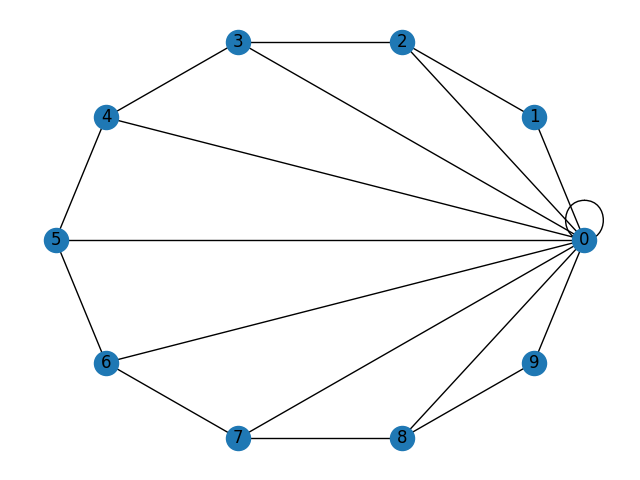
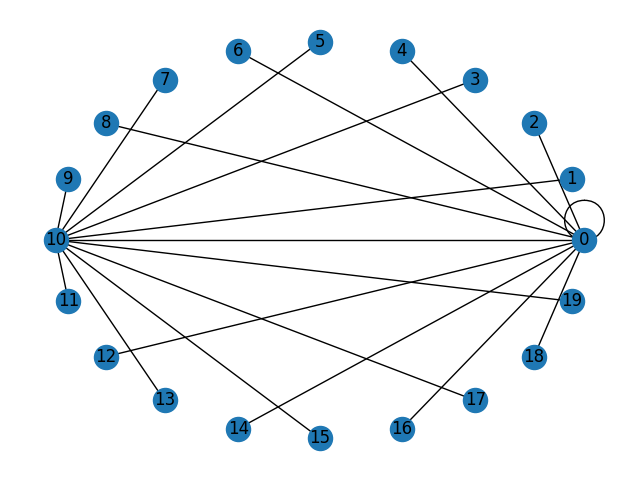
added prime pics

diff --git a/nt/graph.py b/nt/graph.py
@@ -1,24 +1,21 @@
 import networkx as nx
 import matplotlib.pyplot as plt
 
+primes = [2, 3, 5, 7, 11, 13, 17, 19, 23, 29, 31, 37, 41, 43, 47, 53, 59, 61, 67, 71, 73, 79, 83, 89, 97]
+
 def division_graph(m):
     direction = []
-    G = nx.cycle_graph(m)
+    G = nx.empty_graph(m)
     pos = nx.circular_layout(G)
     for i in range(m):
         direction.append((i*10)%m)
         G.add_edge(i,direction[i])
     nx.draw(G, pos, with_labels=True)
-    plt.savefig("circular_graph.png")
+    plt.savefig(f"./nt/graph_img/{m}.png")
+    plt.clf()
+    plt.close()
 
 
-# Add edges between specific nodes
-#G.add_edge(1, 1)
-#G.add_edge(4, 1)
+for i in primes:
+   division_graph(i)
 
-# Draw the graph
-
-# Save the figure as an image file
-
-
-division_graph(10)
